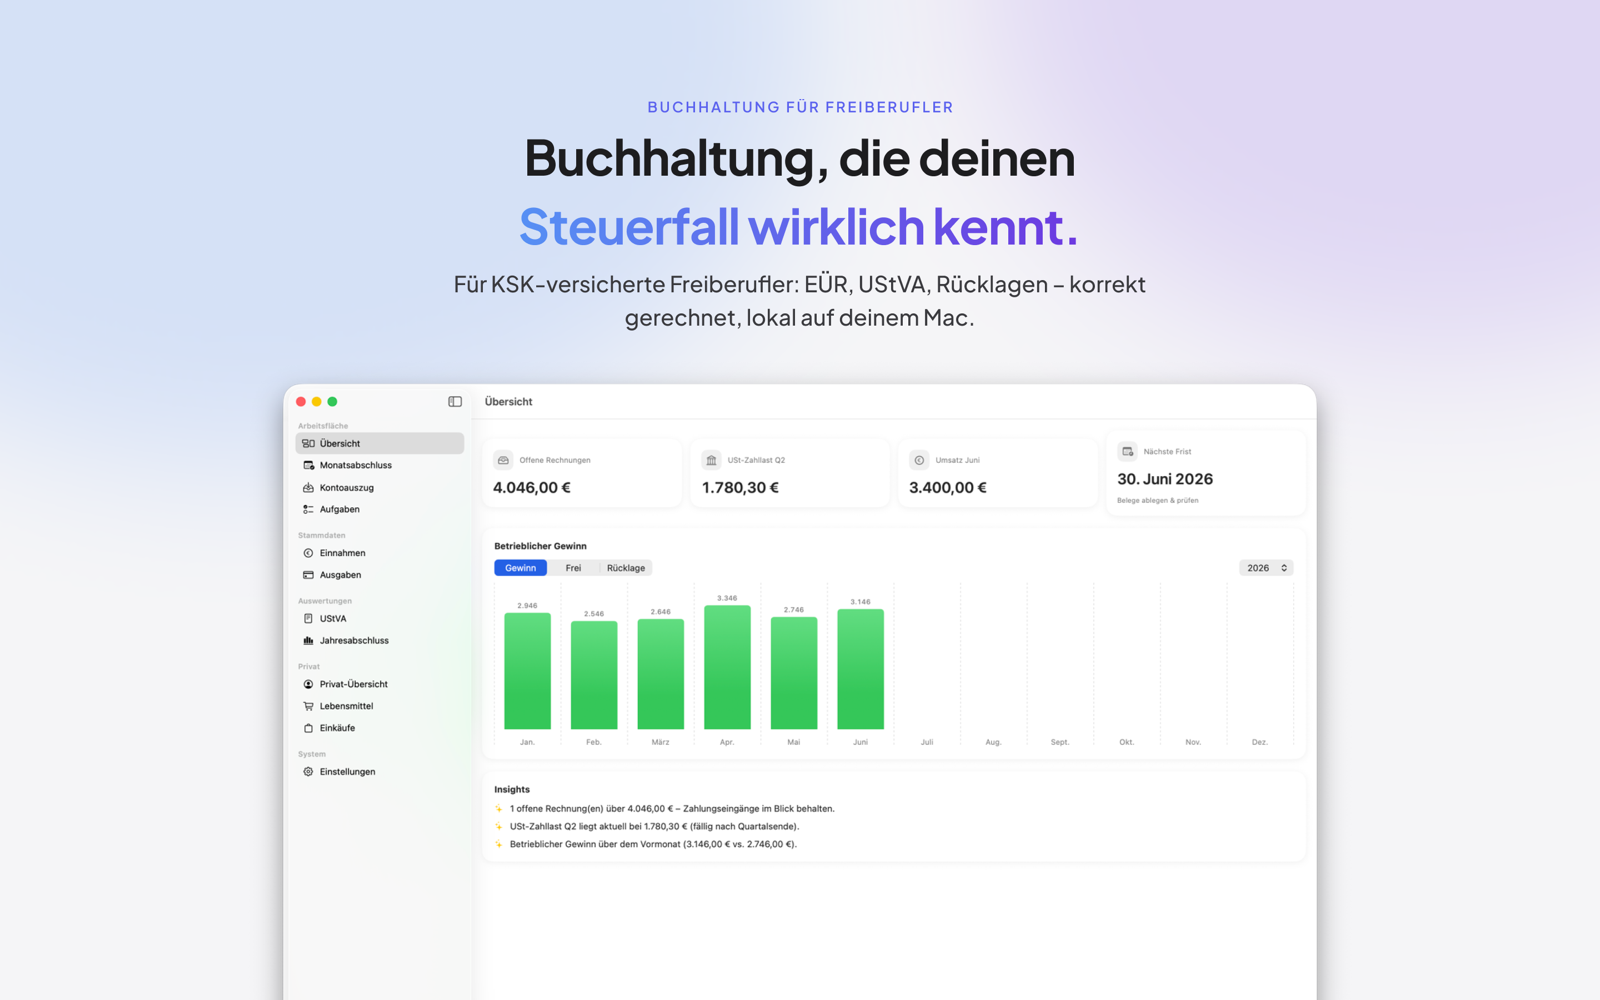
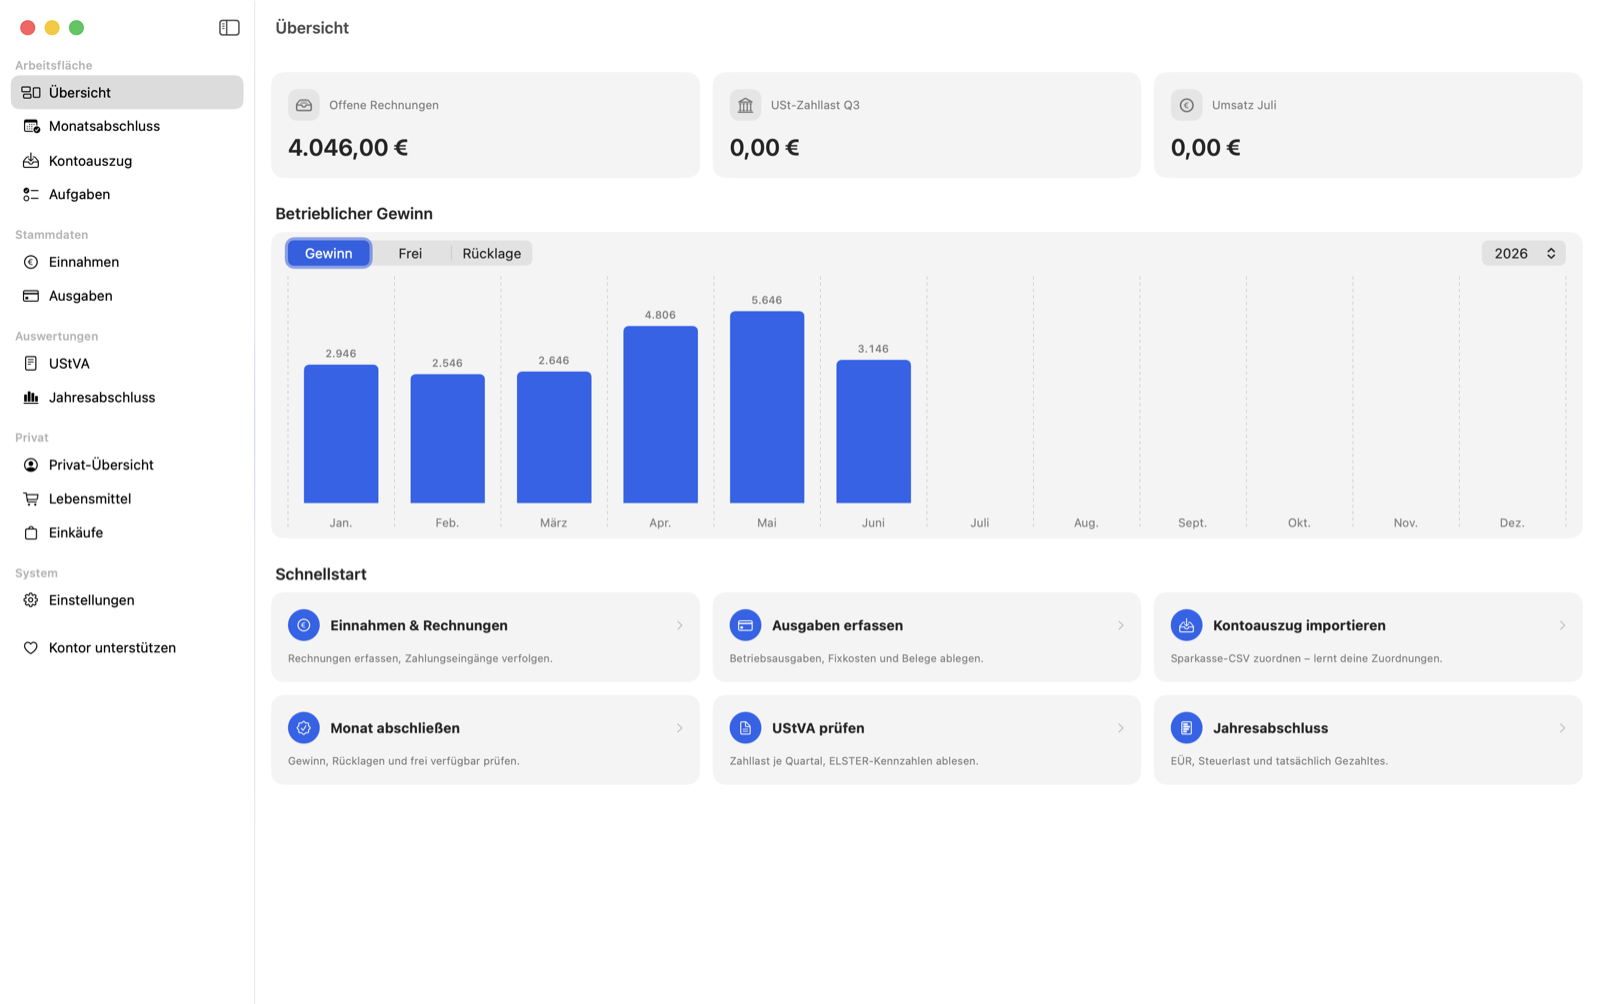
docs+dev: README-Screenshot erneuert; DEBUG-Screenshot-Modus maximiert Fenster + erzwingt Appearance
docs/screenshot.png auf neue Übersicht (natives Redesign). ContentView:
im DEBUG-Screenshot-Pfad (-startModul) Fenster auf visibleFrame maximieren und
App-Appearance (Titelleiste + Inhalt) per -startAppearance erzwingen. AppKit-
Import unbedingt (macOS), NSApp-Nutzung bleibt in #if DEBUG.

diff --git a/Kontor/ContentView.swift b/Kontor/ContentView.swift
@@ -1,3 +1,4 @@
+import AppKit
 import SwiftData
 import SwiftUI
 
@@ -165,6 +166,17 @@ struct ContentView: View {
             // ohne das Argument; in Release ohnehin wegkompiliert.
             if let s = UserDefaults.standard.string(forKey: "startModul"), let m = Modul(rawValue: s) {
                 nav.modul = m
+                // Erscheinungsbild der ganzen App (inkl. Titelleiste) fürs Screenshot erzwingen.
+                if let a = UserDefaults.standard.string(forKey: "startAppearance") {
+                    NSApp.appearance = NSAppearance(named: a == "dark" ? .darkAqua : .aqua)
+                }
+                // Fenster maximieren, damit die Screenshots das volle Layout zeigen.
+                try? await Task.sleep(for: .milliseconds(300))
+                if let win = NSApp.windows.first(where: { $0.isVisible }),
+                    let scr = win.screen ?? NSScreen.main
+                {
+                    win.setFrame(scr.visibleFrame, display: true)
+                }
                 return
             }
             #endif
